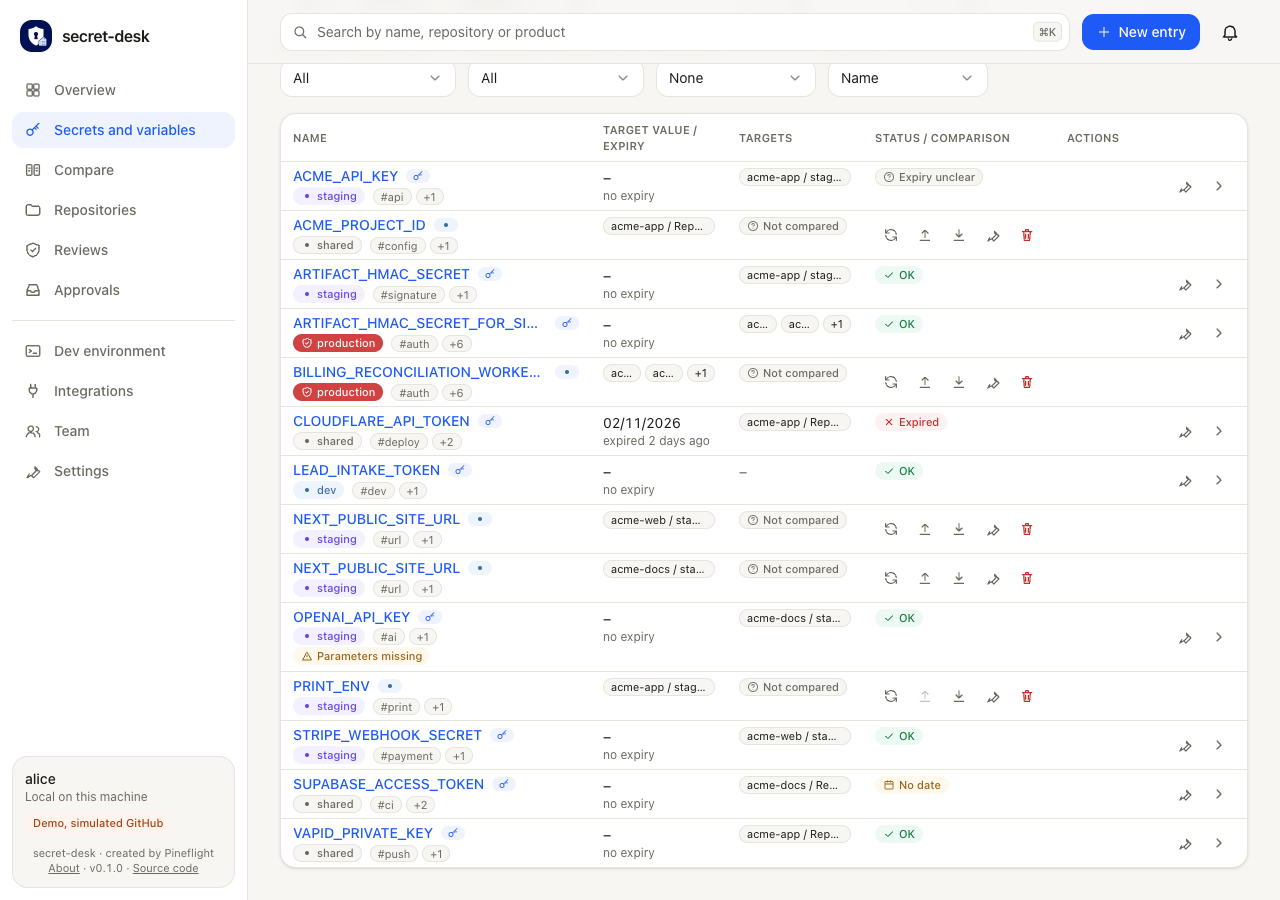
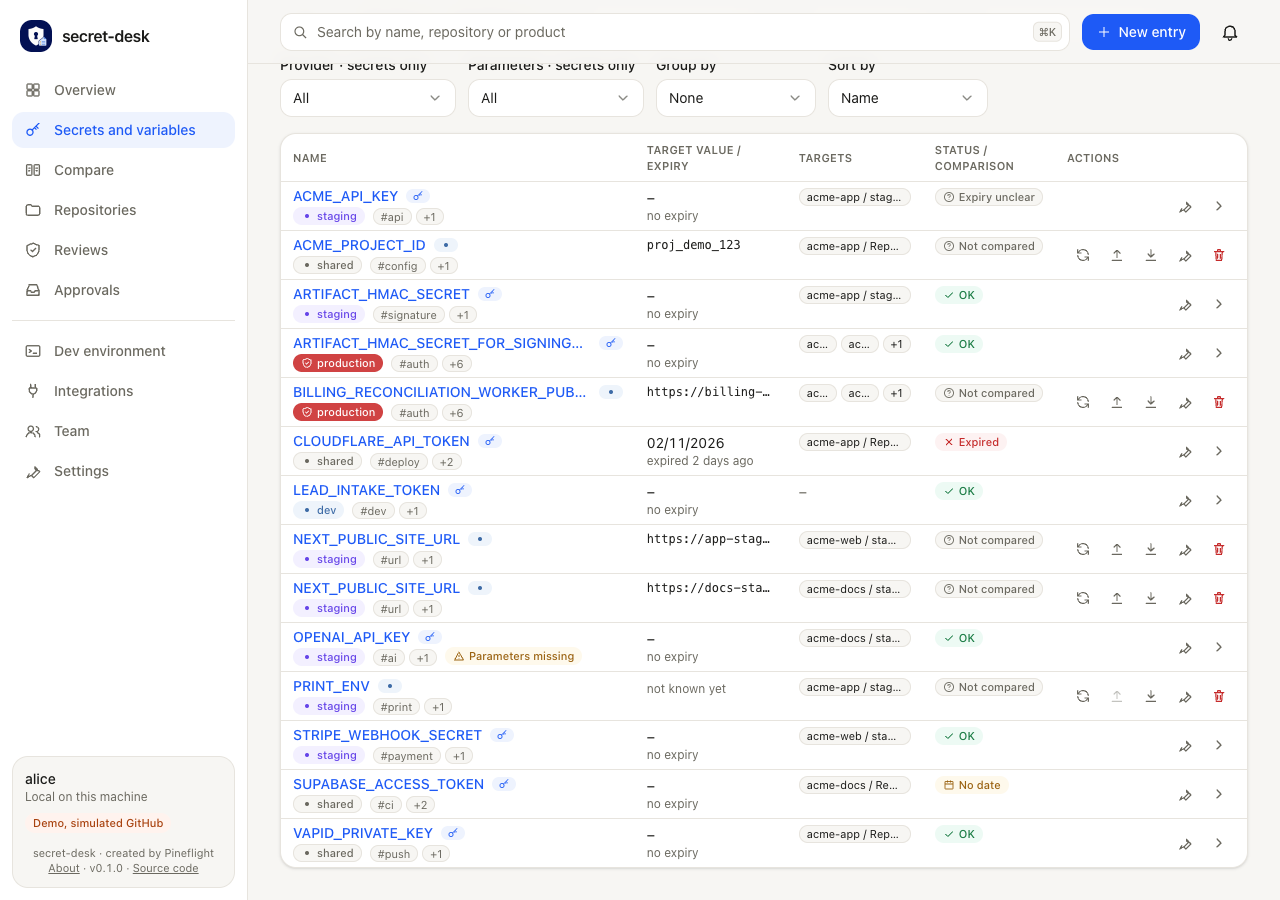
fix(entries): keep variable cells in their columns so actions align
Variable rows hid their value cell below 1700 px while the "Target value / expiry" header stayed, so every later cell
shifted one column left: targets sat under the value header, the status badge under Targets and the five action icons under
Status. The value cell now stays in that column from 1280 px (it replaces the value preview on line 2), so every row type has
the same cells and the actions end at the same x.

diff --git a/apps/desk/src/app/entries/page.tsx b/apps/desk/src/app/entries/page.tsx
@@ -538,9 +538,6 @@ function VariableRowView({ v, terms, tag, setTag, drift, error, comparing, busy,
         <div className={`flex min-w-0 flex-wrap items-center gap-x-2 gap-y-0.5${sourceText ? "" : " xl:h-5 xl:flex-nowrap xl:overflow-hidden"}`}>
           <span className="min-w-0 shrink truncate text-xs text-muted hidden max-xl:block @[23rem]:block xl:max-w-[8rem]"><Marked text={v.id} terms={terms} /></span>
           <span className="hidden shrink-0 items-center gap-1 xl:max-[1699px]:inline-flex"><StageBadge stage={v.stage} /></span>
-          <span className="hidden xl:max-[1699px]:contents">
-            <span className="hidden max-w-[8rem] shrink-0 truncate font-mono text-xs @[38rem]:block" title={v.value ?? undefined}>{v.value === null ? t("variables.unknownYet") : shortValue(v.value)}</span>
-          </span>
           {v.tags.length > 0 ? <span className="contents" onClick={(e) => e.stopPropagation()}><TagChips tags={v.tags} onPick={setTag} active={tag} /></span> : null}
           {sourceText ? <Pill>{t("variables.src.badge", { source: sourceText })}</Pill> : null}
         </div>
@@ -553,7 +550,7 @@ function VariableRowView({ v, terms, tag, setTag, drift, error, comparing, busy,
       </td>
       <td className={`${WIDE_CELL_CLASS} max-[1699px]:hidden`}><KindBadge kind="variable" /></td>
       <td className={`${WIDE_CELL_CLASS} max-[1699px]:hidden`}><StageBadge stage={v.stage} /></td>
-      <td className={`${WIDE_CELL_CLASS} max-[1699px]:hidden`}>{value}</td>
+      <td className={WIDE_CELL_CLASS}>{value}</td>
       <td className={WIDE_CELL_CLASS}><Targets places={v.places} /></td>
       <td className={`${LIST_CELL_CLASS} whitespace-nowrap max-sm:hidden`}>{status}</td>
       <td className={ACTIONS_CELL_CLASS} onClick={(e) => e.stopPropagation()}>{actions}</td>
